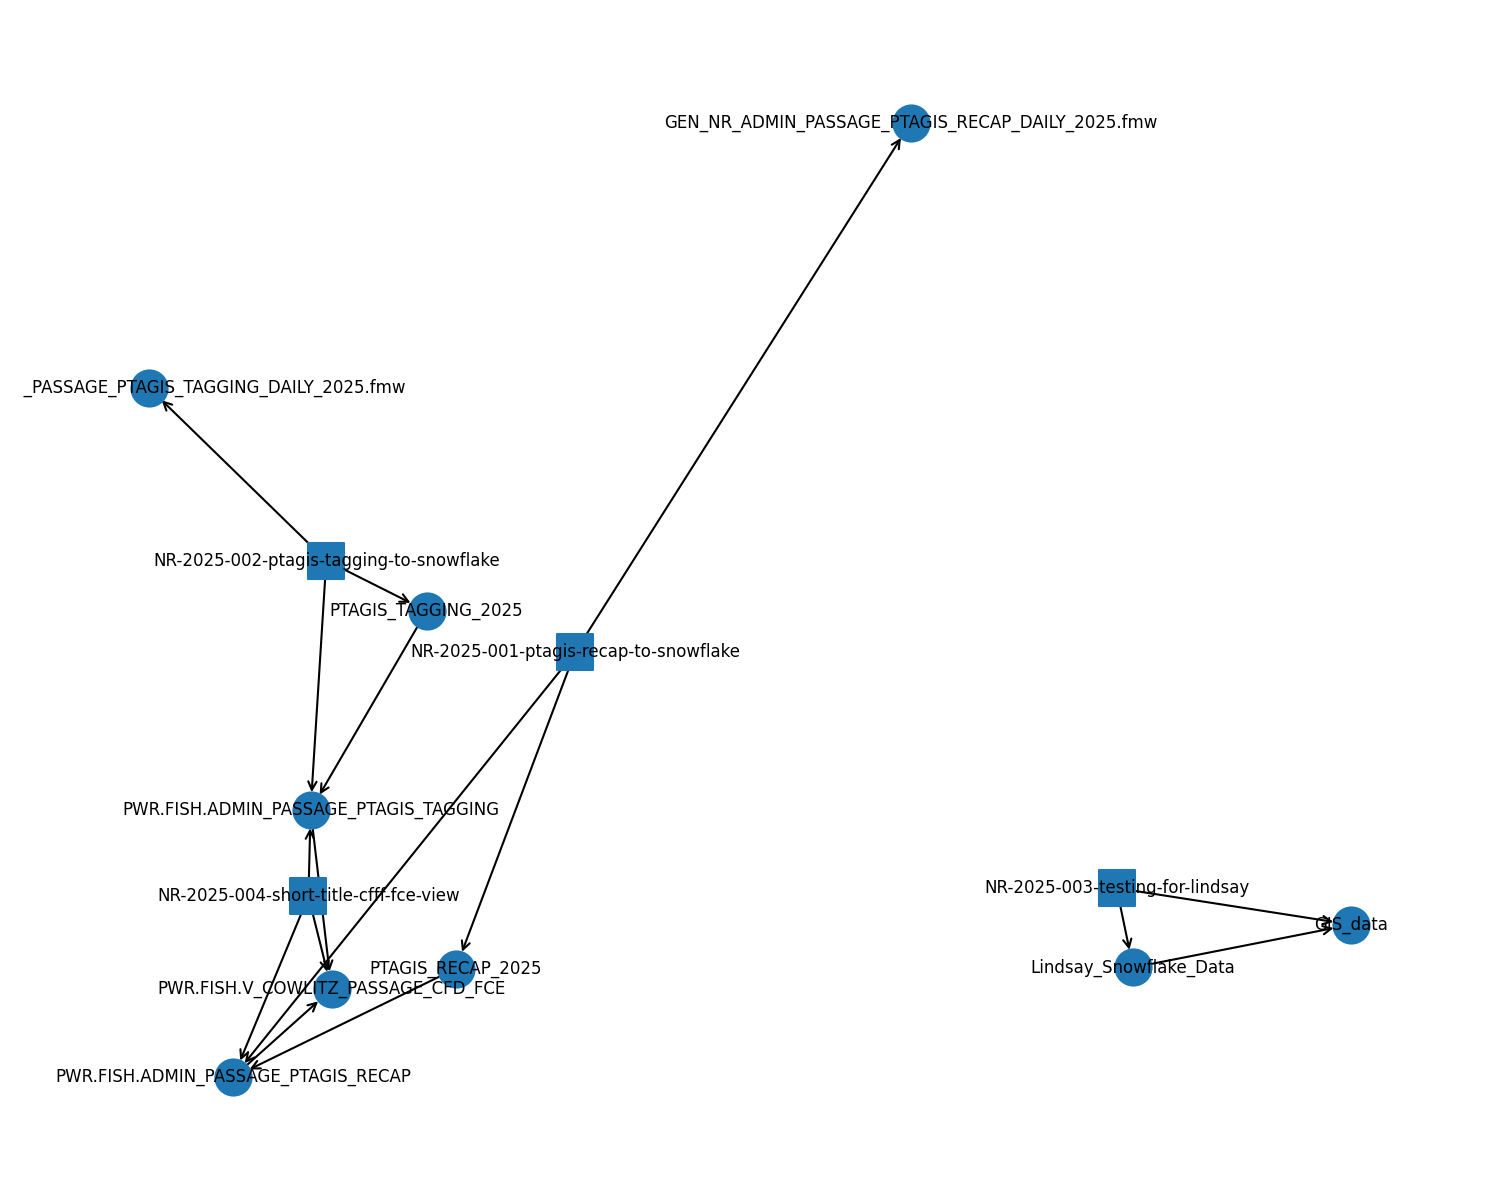
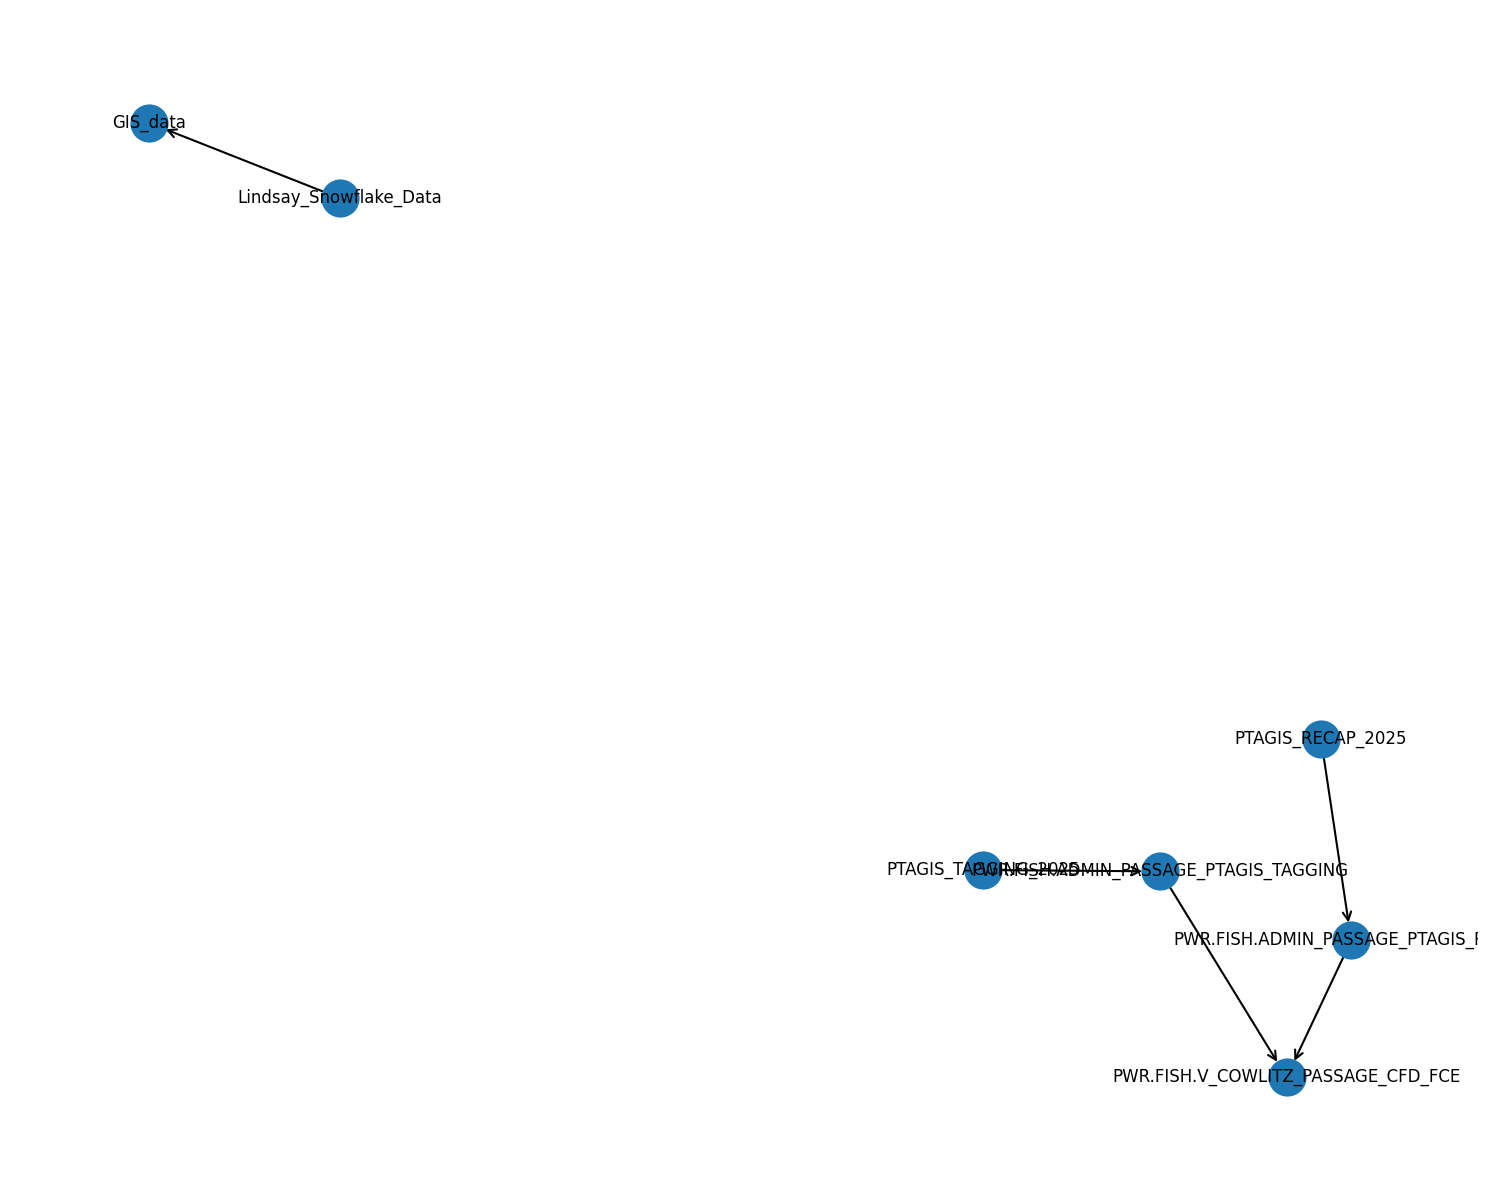
graph: update docs (graph.html, index.html, lib/*) & assets/graph.png

diff --git a/docs/graph.html b/docs/graph.html
@@ -88,8 +88,8 @@
                   
 
                   // parsing and collecting nodes and edges from the python
-                  nodes = new vis.DataSet([{"color": "#97c2fc", "id": "PTAGIS_RECAP_2025", "kind": "Asset", "label": "PTAGIS_RECAP_2025", "shape": "dot", "size": 12, "system": "PTAGIS", "type": "json"}, {"color": "#97c2fc", "id": "PWR.FISH.ADMIN_PASSAGE_PTAGIS_RECAP", "kind": "Asset", "label": "PWR.FISH.ADMIN_PASSAGE_PTAGIS_RECAP", "shape": "dot", "size": 12, "system": "Snowflake", "type": "Database"}, {"color": "#97c2fc", "id": "PWR.FISH.V_COWLITZ_PASSAGE_CFD_FCE", "kind": "Asset", "label": "PWR.FISH.V_COWLITZ_PASSAGE_CFD_FCE", "shape": "dot", "size": 12, "system": "Snowflake", "type": "Database"}, {"color": "#97c2fc", "id": "PTAGIS_TAGGING_2025", "kind": "Asset", "label": "PTAGIS_TAGGING_2025", "shape": "dot", "size": 12, "system": "PTAGIS", "type": "json"}, {"color": "#97c2fc", "id": "PWR.FISH.ADMIN_PASSAGE_PTAGIS_TAGGING", "kind": "Asset", "label": "PWR.FISH.ADMIN_PASSAGE_PTAGIS_TAGGING", "shape": "dot", "size": 12, "system": "Snowflake", "type": "Database"}, {"color": "#97c2fc", "id": "Lindsay_Snowflake_Data", "kind": "Asset", "label": "Lindsay_Snowflake_Data", "shape": "dot", "size": 12, "system": "Snowflake", "type": "tabular"}, {"color": "#97c2fc", "id": "GIS_data", "kind": "Asset", "label": "GIS_data", "shape": "dot", "size": 12, "system": "GIS", "type": "spatial"}, {"color": {"background": "#E6F0FF", "border": "#333333"}, "id": "Project::NR-2025-001-ptagis-recap-to-snowflake", "kind": "Project", "label": "NR-2025-001-ptagis-recap-to-snowflake", "shape": "box", "size": 10}, {"color": "#97c2fc", "id": "GEN_NR_ADMIN_PASSAGE_PTAGIS_RECAP_DAILY_2025.fmw", "kind": "Asset", "label": "GEN_NR_ADMIN_PASSAGE_PTAGIS_RECAP_DAILY_2025.fmw", "shape": "dot", "size": 12, "system": "FME", "type": "Workbench"}, {"color": {"background": "#E6F0FF", "border": "#333333"}, "id": "Project::NR-2025-002-ptagis-tagging-to-snowflake", "kind": "Project", "label": "NR-2025-002-ptagis-tagging-to-snowflake", "shape": "box", "size": 10}, {"color": "#97c2fc", "id": "GEN_NR_ADMIN_PASSAGE_PTAGIS_TAGGING_DAILY_2025.fmw", "kind": "Asset", "label": "GEN_NR_ADMIN_PASSAGE_PTAGIS_TAGGING_DAILY_2025.fmw", "shape": "dot", "size": 12, "system": "FME", "type": "Workbench"}, {"color": {"background": "#E6F0FF", "border": "#333333"}, "id": "Project::NR-2025-003-testing-for-lindsay", "kind": "Project", "label": "NR-2025-003-testing-for-lindsay", "shape": "box", "size": 10}, {"color": {"background": "#E6F0FF", "border": "#333333"}, "id": "Project::NR-2025-004-short-title-cfff-fce-view", "kind": "Project", "label": "NR-2025-004-short-title-cfff-fce-view", "shape": "box", "size": 10}]);
-                  edges = new vis.DataSet([{"arrows": "to", "description": "", "frequency": "Daily", "from": "PTAGIS_RECAP_2025", "to": "PWR.FISH.ADMIN_PASSAGE_PTAGIS_RECAP", "tool": "GEN_NR_ADMIN_PASSAGE_PTAGIS_RECAP_DAILY_2025.fmw", "width": 1}, {"arrows": "to", "description": "", "frequency": "live", "from": "PWR.FISH.ADMIN_PASSAGE_PTAGIS_RECAP", "to": "PWR.FISH.V_COWLITZ_PASSAGE_CFD_FCE", "tool": "snowflake", "width": 1}, {"arrows": "to", "description": "", "frequency": "Daily", "from": "PTAGIS_TAGGING_2025", "to": "PWR.FISH.ADMIN_PASSAGE_PTAGIS_TAGGING", "tool": "GEN_NR_ADMIN_PASSAGE_PTAGIS_TAGGING_DAILY_2025.fmw", "width": 1}, {"arrows": "to", "description": "", "frequency": "live", "from": "PWR.FISH.ADMIN_PASSAGE_PTAGIS_TAGGING", "to": "PWR.FISH.V_COWLITZ_PASSAGE_CFD_FCE", "tool": "snowflake", "width": 1}, {"arrows": "to", "description": "", "frequency": "Daily", "from": "Lindsay_Snowflake_Data", "to": "GIS_data", "tool": "fme", "width": 1}, {"arrows": "to", "from": "Project::NR-2025-001-ptagis-recap-to-snowflake", "rel": "USES", "to": "PTAGIS_RECAP_2025", "width": 1}, {"arrows": "to", "from": "Project::NR-2025-001-ptagis-recap-to-snowflake", "rel": "USES", "to": "GEN_NR_ADMIN_PASSAGE_PTAGIS_RECAP_DAILY_2025.fmw", "width": 1}, {"arrows": "to", "from": "Project::NR-2025-001-ptagis-recap-to-snowflake", "rel": "USES", "to": "PWR.FISH.ADMIN_PASSAGE_PTAGIS_RECAP", "width": 1}, {"arrows": "to", "from": "Project::NR-2025-002-ptagis-tagging-to-snowflake", "rel": "USES", "to": "GEN_NR_ADMIN_PASSAGE_PTAGIS_TAGGING_DAILY_2025.fmw", "width": 1}, {"arrows": "to", "from": "Project::NR-2025-002-ptagis-tagging-to-snowflake", "rel": "USES", "to": "PWR.FISH.ADMIN_PASSAGE_PTAGIS_TAGGING", "width": 1}, {"arrows": "to", "from": "Project::NR-2025-002-ptagis-tagging-to-snowflake", "rel": "USES", "to": "PTAGIS_TAGGING_2025", "width": 1}, {"arrows": "to", "from": "Project::NR-2025-003-testing-for-lindsay", "rel": "USES", "to": "GIS_data", "width": 1}, {"arrows": "to", "from": "Project::NR-2025-003-testing-for-lindsay", "rel": "USES", "to": "Lindsay_Snowflake_Data", "width": 1}, {"arrows": "to", "from": "Project::NR-2025-004-short-title-cfff-fce-view", "rel": "USES", "to": "PWR.FISH.ADMIN_PASSAGE_PTAGIS_RECAP", "width": 1}, {"arrows": "to", "from": "Project::NR-2025-004-short-title-cfff-fce-view", "rel": "USES", "to": "PWR.FISH.V_COWLITZ_PASSAGE_CFD_FCE", "width": 1}, {"arrows": "to", "from": "Project::NR-2025-004-short-title-cfff-fce-view", "rel": "USES", "to": "PWR.FISH.ADMIN_PASSAGE_PTAGIS_TAGGING", "width": 1}]);
+                  nodes = new vis.DataSet([{"color": "#97c2fc", "id": "PTAGIS_RECAP_2025", "kind": "Asset", "label": "PTAGIS_RECAP_2025", "shape": "dot", "size": 12}, {"color": "#97c2fc", "id": "PWR.FISH.ADMIN_PASSAGE_PTAGIS_RECAP", "kind": "Asset", "label": "PWR.FISH.ADMIN_PASSAGE_PTAGIS_RECAP", "shape": "dot", "size": 12}, {"color": "#97c2fc", "id": "PWR.FISH.V_COWLITZ_PASSAGE_CFD_FCE", "kind": "Asset", "label": "PWR.FISH.V_COWLITZ_PASSAGE_CFD_FCE", "shape": "dot", "size": 12}, {"color": "#97c2fc", "id": "PTAGIS_TAGGING_2025", "kind": "Asset", "label": "PTAGIS_TAGGING_2025", "shape": "dot", "size": 12}, {"color": "#97c2fc", "id": "PWR.FISH.ADMIN_PASSAGE_PTAGIS_TAGGING", "kind": "Asset", "label": "PWR.FISH.ADMIN_PASSAGE_PTAGIS_TAGGING", "shape": "dot", "size": 12}, {"color": "#97c2fc", "id": "Lindsay_Snowflake_Data", "kind": "Asset", "label": "Lindsay_Snowflake_Data", "shape": "dot", "size": 12}, {"color": "#97c2fc", "id": "GIS_data", "kind": "Asset", "label": "GIS_data", "shape": "dot", "size": 12}]);
+                  edges = new vis.DataSet([{"arrows": "to", "from": "PTAGIS_RECAP_2025", "to": "PWR.FISH.ADMIN_PASSAGE_PTAGIS_RECAP", "width": 1}, {"arrows": "to", "from": "PWR.FISH.ADMIN_PASSAGE_PTAGIS_RECAP", "to": "PWR.FISH.V_COWLITZ_PASSAGE_CFD_FCE", "width": 1}, {"arrows": "to", "from": "PTAGIS_TAGGING_2025", "to": "PWR.FISH.ADMIN_PASSAGE_PTAGIS_TAGGING", "width": 1}, {"arrows": "to", "from": "PWR.FISH.ADMIN_PASSAGE_PTAGIS_TAGGING", "to": "PWR.FISH.V_COWLITZ_PASSAGE_CFD_FCE", "width": 1}, {"arrows": "to", "from": "Lindsay_Snowflake_Data", "to": "GIS_data", "width": 1}]);
 
                   nodeColors = {};
                   allNodes = nodes.get({ returnType: "Object" });
